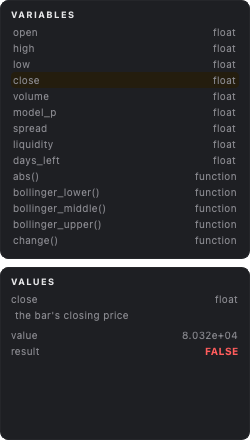
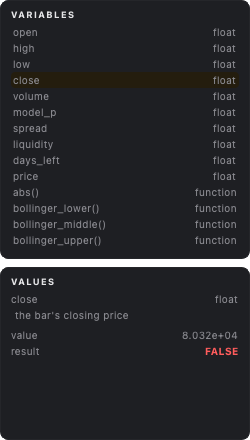
Give each tile group its own colour, and colour the code
A palette block wears its group's colour, not its token's: Maths reads
teal (abs and log included), Data indigo, Indicators amber, Logic green,
and the rule's own names rose. A word nothing here carries is a dimmer,
dashed shade of its group rather than grey, and `price` joins the Data
group as a real field that reads the bar's close.

The Code tab gains syntax colours: functions green, fields indigo,
defined names rose, numbers cyan, keywords amber, comments faint.

Changed region(s): [[0.056, 0.4136, 0.42, 0.5614], [0.056, 0.3841, 0.224, 0.4727], [0.784, 0.3841, 0.952, 0.4136]]

diff --git a/src/lalala/syntax.py b/src/lalala/syntax.py
@@ -1,0 +1,116 @@
+"""Syntax colours for the Code tab, matched to the tiles' groups.
+
+Keywords wear the amber of the Logic/palette accent, function names the
+green of the Logic group, the bar's own words an indigo, numbers a cyan, and
+a `#` comment fades out. The vocabulary comes from the tile, so the entry and
+exit editors colour their own words.
+"""
+
+from __future__ import annotations
+
+import re
+
+from PySide6.QtCore import QRegularExpression
+from PySide6.QtGui import QColor, QFont, QSyntaxHighlighter, QTextCharFormat
+
+from lalala.theme import ACCENT, TEXT_FAINT
+
+# The words the language joins with, and the shapes of the other tokens.
+KEYWORDS = ("and", "or", "not")
+_WORD = QRegularExpression(r"[A-Za-z_][A-Za-z0-9_]*")
+_NUMBER = QRegularExpression(r"\d+(?:\.\d+)?")
+_COMMENT = QRegularExpression(r"#[^\n]*")
+_ASSIGN = re.compile(r"^[ \t]*([A-Za-z_][A-Za-z0-9_]*)[ \t]*=", re.MULTILINE)
+
+FUNCTION_COLOR = "#5fe39a"
+FIELD_COLOR = "#9db4ff"
+NUMBER_COLOR = "#6fd6e6"
+VARIABLE_COLOR = "#ef8fc0"
+
+
+def defined_names(text: str) -> list:
+    """The names `text` assigns to, in order, for the variable colour."""
+    names: list[str] = []
+    for match in _ASSIGN.finditer(text):
+        name = match.group(1)
+        if name not in names:
+            names.append(name)
+    return names
+
+
+def _format(color: str, bold: bool = False) -> QTextCharFormat:
+    fmt = QTextCharFormat()
+    fmt.setForeground(QColor(color))
+    if bold:
+        fmt.setFontWeight(QFont.Weight.DemiBold)
+    return fmt
+
+
+class FormulaHighlighter(QSyntaxHighlighter):
+    """Colour a formula's code: keywords, functions, words and numbers."""
+
+    def __init__(self, document, fields=(), functions=()) -> None:
+        super().__init__(document)
+        self.fields = {str(name) for name in fields}
+        self.functions = {str(name) for name in functions}
+        self.defined: set[str] = set()
+        self._keyword = _format(ACCENT, bold=True)
+        self._function = _format(FUNCTION_COLOR)
+        self._field = _format(FIELD_COLOR)
+        self._variable = _format(VARIABLE_COLOR)
+        self._number = _format(NUMBER_COLOR)
+        self._comment = _format(TEXT_FAINT)
+        self._word = _WORD
+        self._number_re = _NUMBER
+        self._comment_re = _COMMENT
+
+    def set_defined(self, names) -> None:
+        """The names the code defines, coloured like the variable chips."""
+        names = {str(name) for name in names}
+        if names == self.defined:
+            return
+        self.defined = names
+        self.rehighlight()
+
+    def highlightBlock(self, text: str) -> None:  # noqa: N802
+        # Numbers first, then words, then the comment over everything.
+        iterator = self._number_re.globalMatch(text)
+        while iterator.hasNext():
+            match = iterator.next()
+            self.setFormat(
+                match.capturedStart(), match.capturedLength(), self._number
+            )
+
+        iterator = self._word.globalMatch(text)
+        while iterator.hasNext():
+            match = iterator.next()
+            word = match.captured()
+            if word in self.functions:
+                fmt = self._function
+            elif word in KEYWORDS:
+                fmt = self._keyword
+            elif word in self.defined:
+                fmt = self._variable
+            elif word in self.fields:
+                fmt = self._field
+            else:
+                continue
+            self.setFormat(match.capturedStart(), match.capturedLength(), fmt)
+
+        iterator = self._comment_re.globalMatch(text)
+        while iterator.hasNext():
+            match = iterator.next()
+            self.setFormat(
+                match.capturedStart(), match.capturedLength(), self._comment
+            )
+
+
+__all__ = [
+    "FIELD_COLOR",
+    "FUNCTION_COLOR",
+    "KEYWORDS",
+    "NUMBER_COLOR",
+    "VARIABLE_COLOR",
+    "FormulaHighlighter",
+    "defined_names",
+]

diff --git a/src/lalala/formula_builder.py b/src/lalala/formula_builder.py
@@ -61,6 +61,17 @@ from lalala.theme import BORDER, TEXT_FAINT
 MIME = "application/x-lalala-chip"
 HANDLE = "⠿"
 LOGIC_WORDS = ("and", "or", "not")
+# The palette groups, and the colour each of its blocks wears — so a block is
+# coloured by where it sits, not by what it happens to hold.
+GROUP_KEYS = {
+    "Data": "data",
+    "Indicators": "indicator",
+    "Maths": "maths",
+    "Logic": "logic",
+    "Trade": "data",
+}
+# The maths functions: they live in Maths, so they wear its colour.
+MATHS_FUNCS = frozenset({"abs", "log"})
 # Names that read as "the bar" or "the trade": both are data, coloured alike.
 DATA_NAMES = frozenset(ENTRY_FIELDS) | frozenset(EXIT_FIELDS)
 
@@ -114,6 +125,7 @@ PALETTES: tuple = (
         "Data",
         (
             Item("close", ("close",), "the bar's closing price"),
+            Item("price", ("price",), "the market price — the bar's close"),
             Item("open", ("open",)),
             Item("high", ("high",)),
             Item("low", ("low",)),
@@ -622,7 +634,7 @@ class CallChip(Chip):
         return False
 
     def group(self) -> str:
-        return "indicator"
+        return "maths" if self.func in MATHS_FUNCS else "indicator"
 
     def tokens(self) -> list:
         tokens = [self.func, "(", self.series]
@@ -971,7 +983,8 @@ class FormulaBuilder(QWidget):
         # dragged into the condition like any other block.
         column.addWidget(self._variables_group(inner))
         for group, items in self.palette:
-            column.addWidget(self._block_group(inner, group, items))
+            key = GROUP_KEYS.get(group, "maths")
+            column.addWidget(self._block_group(inner, group, items, key))
         column.addStretch(1)
         scroll.setWidget(inner)
         outer.addWidget(scroll, 1)
@@ -1027,7 +1040,9 @@ class FormulaBuilder(QWidget):
                         names.append(name)
         return names
 
-    def _block_group(self, parent: QWidget, title: str, items: tuple) -> QWidget:
+    def _block_group(
+        self, parent: QWidget, title: str, items: tuple, key: str
+    ) -> QWidget:
         """One dashed group: its caption, then its blocks, wrapping."""
         frame = QFrame(parent)
         frame.setObjectName("blockGroup")
@@ -1044,6 +1059,10 @@ class FormulaBuilder(QWidget):
         blocks: list[PaletteBlock] = []
         for item in items:
             block = PaletteBlock(item, holder)
+            # The block wears its group's colour, whatever it holds.
+            block.setProperty("group", key)
+            block.style().unpolish(block)
+            block.style().polish(block)
             holder.flow.addWidget(block)
             blocks.append(block)
         self.blocks[title] = blocks

diff --git a/tests/test_syntax.py b/tests/test_syntax.py
@@ -1,0 +1,55 @@
+"""The Code tab's syntax colours."""
+
+from __future__ import annotations
+
+import os
+
+os.environ.setdefault("QT_QPA_PLATFORM", "offscreen")
+
+import pytest  # noqa: E402
+from PySide6.QtGui import QTextDocument  # noqa: E402
+from PySide6.QtWidgets import QApplication  # noqa: E402
+
+from lalala.formula import ENTRY_FIELDS, FUNCTIONS  # noqa: E402
+from lalala.syntax import FormulaHighlighter, defined_names  # noqa: E402
+from lalala.theme import apply_dark_theme  # noqa: E402
+
+
+@pytest.fixture(scope="session")
+def app() -> QApplication:
+    instance = QApplication.instance() or QApplication([])
+    apply_dark_theme(instance)
+    return instance
+
+
+def test_defined_names_reads_the_assignments() -> None:
+    text = "band = bollinger_lower(close, 20, 2)\nclose < band and edge > 0"
+    assert defined_names(text) == ["band"]
+
+
+def _runs(document: QTextDocument) -> dict[str, str]:
+    """Every coloured run, as word -> colour name."""
+    runs: dict[str, str] = {}
+    block = document.firstBlock()
+    while block.isValid():
+        text = block.text()
+        for run in block.layout().formats():
+            word = text[run.start : run.start + run.length]
+            runs[word] = run.format.foreground().color().name()
+        block = block.next()
+    return runs
+
+
+def test_the_highlighter_colours_each_kind(app: QApplication) -> None:
+    document = QTextDocument()
+    document.setPlainText("band = sma(close, 20)\nclose < band and not volume")
+    highlighter = FormulaHighlighter(document, ENTRY_FIELDS, FUNCTIONS)
+    highlighter.set_defined(["band"])
+    highlighter.rehighlight()
+
+    runs = _runs(document)
+    assert runs["sma"] == "#5fe39a"      # a function
+    assert runs["close"] == "#9db4ff"    # a field
+    assert runs["band"] == "#ef8fc0"     # a defined name
+    assert runs["and"] == "#e0b341"      # a keyword
+    assert runs["20"] == "#6fd6e6"       # a number

diff --git a/src/lalala/theme.py b/src/lalala/theme.py
@@ -164,18 +164,22 @@ QLabel#blockLabel {{
     color: {UP};
 }}
 
-/* Maths and everything else: neutral. */
+/* Maths: a cool teal, its own colour. */
 #paletteBlock[group="maths"], #formulaChip[group="maths"] {{
-    background-color: {PANEL_ALT};
-    border: 1px solid {BORDER};
+    background-color: #0e2a2f;
+    border: 1px solid #1c5058;
 }}
 #paletteBlock[group="maths"] QLabel, #formulaChip[group="maths"] QLabel {{
-    color: {TEXT};
+    color: #58cfe0;
 }}
-/* A variable's name: a chip like any other, but you type in it. */
+/* A variable's name: a rose chip like any other, but you type in it. */
 #paletteBlock[group="name"], #formulaChip[group="name"] {{
-    background-color: {PANEL_ALT};
-    border: 1px solid {BORDER};
+    background-color: #2b1622;
+    border: 1px solid #5a2942;
+}}
+#paletteBlock[group="name"] QLabel, #formulaChip[group="name"] QLabel,
+#formulaChip[group="name"] QLineEdit {{
+    color: #ef8fc0;
 }}
 #formulaChip[slot="true"] {{
     background-color: {CANVAS};
@@ -195,13 +199,17 @@ QLabel#blockLabel {{
 #formulaChip[fixed="true"] QLabel {{
     color: {TEXT_MUTED};
 }}
-/* A palette block nothing here carries: named, but dashed and faint. */
+/* A palette block nothing here carries: dashed, in a dimmer shade of its
+   group's colour, so it reads as the same kind of thing, not a different one. */
 #paletteBlock[missing="true"] {{
-    background-color: {CANVAS};
-    border: 1px dashed {BORDER};
+    border-style: dashed;
 }}
-#paletteBlock[missing="true"] QLabel {{
-    color: {TEXT_FAINT};
+#paletteBlock[group="data"][missing="true"] {{
+    background-color: #141a30;
+    border-color: #26325a;
+}}
+#paletteBlock[group="data"][missing="true"] QLabel {{
+    color: #7f8bbf;
 }}
 
 QLabel#formulaWarning {{

diff --git a/src/lalala/strat_rules.py b/src/lalala/strat_rules.py
@@ -28,6 +28,7 @@ from PySide6.QtWidgets import (
 
 from lalala.cards import mono_font
 from lalala.autocomplete import CodeEdit, vocabulary
+from lalala.syntax import FormulaHighlighter, defined_names
 from lalala.formula import (
     ENTRY_FIELDS,
     EXIT_FIELDS,
@@ -268,6 +269,12 @@ class RulesTile(Card):
         )
         self.code_edit.textChanged.connect(self._code_edited)
         code_layout.addWidget(self.code_edit, 1)
+        self.code_highlighter = FormulaHighlighter(
+            self.code_edit.document(), self.fields, self.functions
+        )
+        self.code_edit.document().contentsChanged.connect(
+            self._refresh_code_names
+        )
 
         self.code_error = QLabel("", code_card)
         self.code_error.setObjectName("formulaError")
@@ -577,6 +584,18 @@ class RulesTile(Card):
         self.code_edit.setPlainText(self._accepted)
         self._syncing = False
         self.code_error.setText(f"refused — {message}")
+
+    def _refresh_code_names(self) -> None:
+        """Tell the highlighter which names the code defines."""
+        if getattr(self, "_naming", False):
+            return
+        self._naming = True
+        try:
+            self.code_highlighter.set_defined(
+                defined_names(self.code_edit.toPlainText())
+            )
+        finally:
+            self._naming = False
 
     def _sync_code(self) -> None:
         """Show the builder's text in the code view, and its verdict."""

diff --git a/src/lalala/formula.py b/src/lalala/formula.py
@@ -66,8 +66,9 @@ EXIT_FIELDS = ("price", "entry", "tp", "sl", "pnl", "bars")
 # quietly reading zero.
 NO_HISTORY = ("model_p", "spread", "liquidity", "days_left")
 
-# The entry vocabulary: the bar, plus those words.
-ENTRY_FIELDS = FIELDS + NO_HISTORY
+# The entry vocabulary: the bar, plus those words, and `price` — the close,
+# the market price a Polymarket-style rule names.
+ENTRY_FIELDS = FIELDS + NO_HISTORY + ("price",)
 
 # A line about each word, shown when it is selected in the code tab.
 FIELD_NOTES: dict[str, str] = {

diff --git a/src/lalala/formula_eval.py b/src/lalala/formula_eval.py
@@ -64,6 +64,9 @@ def _value(bar, name: str):
         raw = bar.get(name)
     else:
         raw = getattr(bar, name, None)
+        if raw is None and name == "price":
+            # On a bar, the market price is the close.
+            raw = getattr(bar, "close", None)
     if isinstance(raw, bool) or not isinstance(raw, (int, float)):
         return None
     return float(raw)
